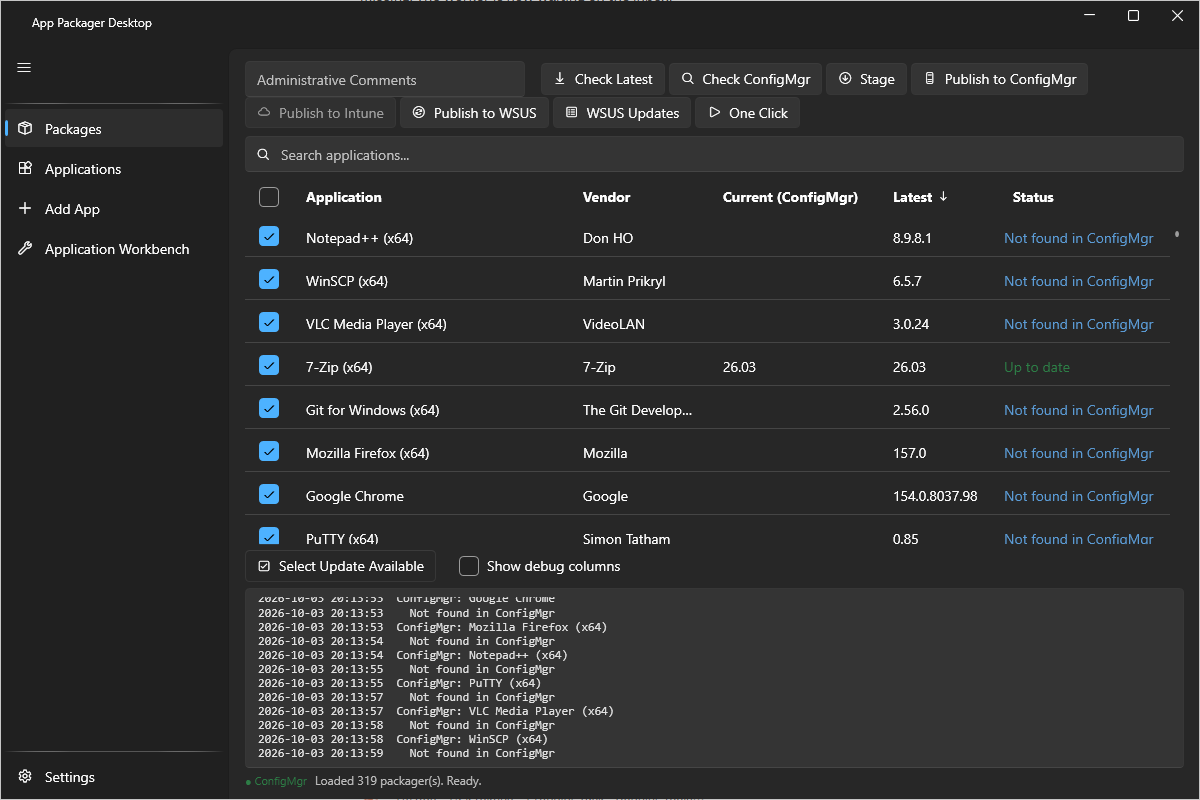
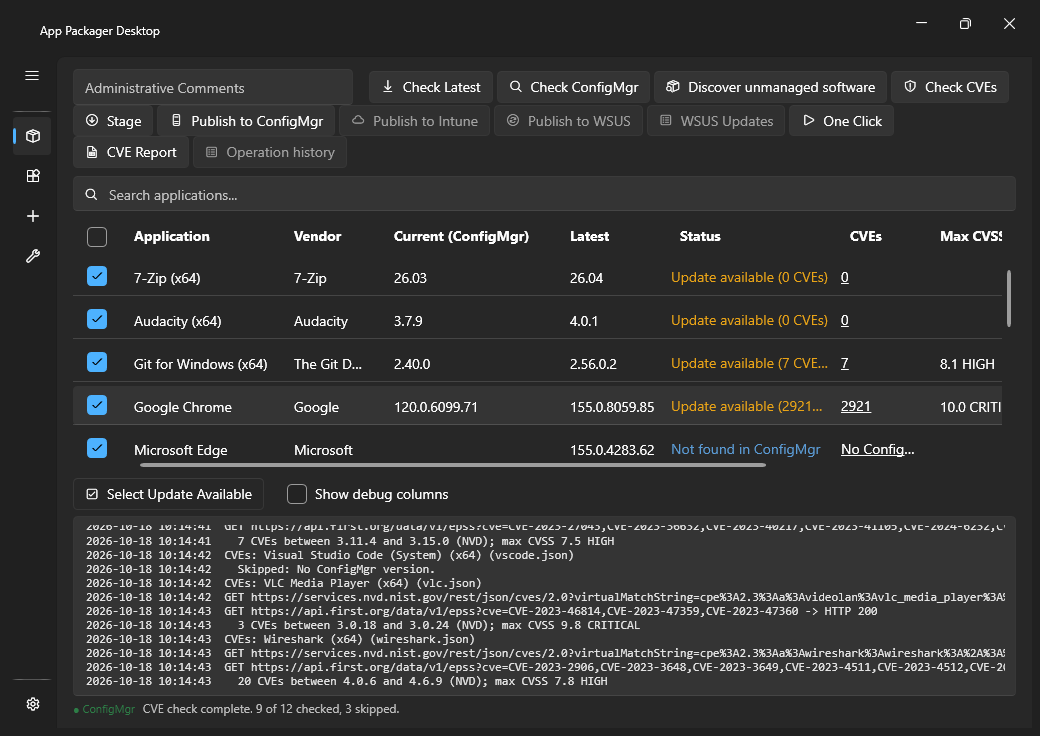
Replace the Packages screenshot with a current lab capture and add the CVE columns capture

diff --git a/README.md b/README.md
@@ -10,7 +10,7 @@
 
 App Packager Desktop packages third-party Windows applications and publishes them to ConfigMgr, Intune and WSUS. It is a Windows desktop application. It is free and MIT licensed.
 
-![The Packages page](docs/images/packages.png)
+![The Packages page with the version, ConfigMgr, status and CVE columns filled for checked applications](docs/images/packages.png)
 
 ## What it does
 
@@ -124,6 +124,8 @@ Requirements and limits:
 - **Settings** holds the NVD API key and the switch **Look up CVEs after Check ConfigMgr**. A key is optional. Without a key, NVD permits 5 requests in 30 seconds; with a key, 50.
 
 The data comes from NVD. When NVD does not answer, the lookup uses Shodan CVEDB and marks the result. EPSS scores come from FIRST. A lookup that fails shows an error; it does not show a count of 0.
+
+![The Packages grid scrolled to the CVEs, Max CVSS, KEV, In latest and Newest CVE columns](docs/images/packages-cve.png)
 
 ## Command-line build
 
